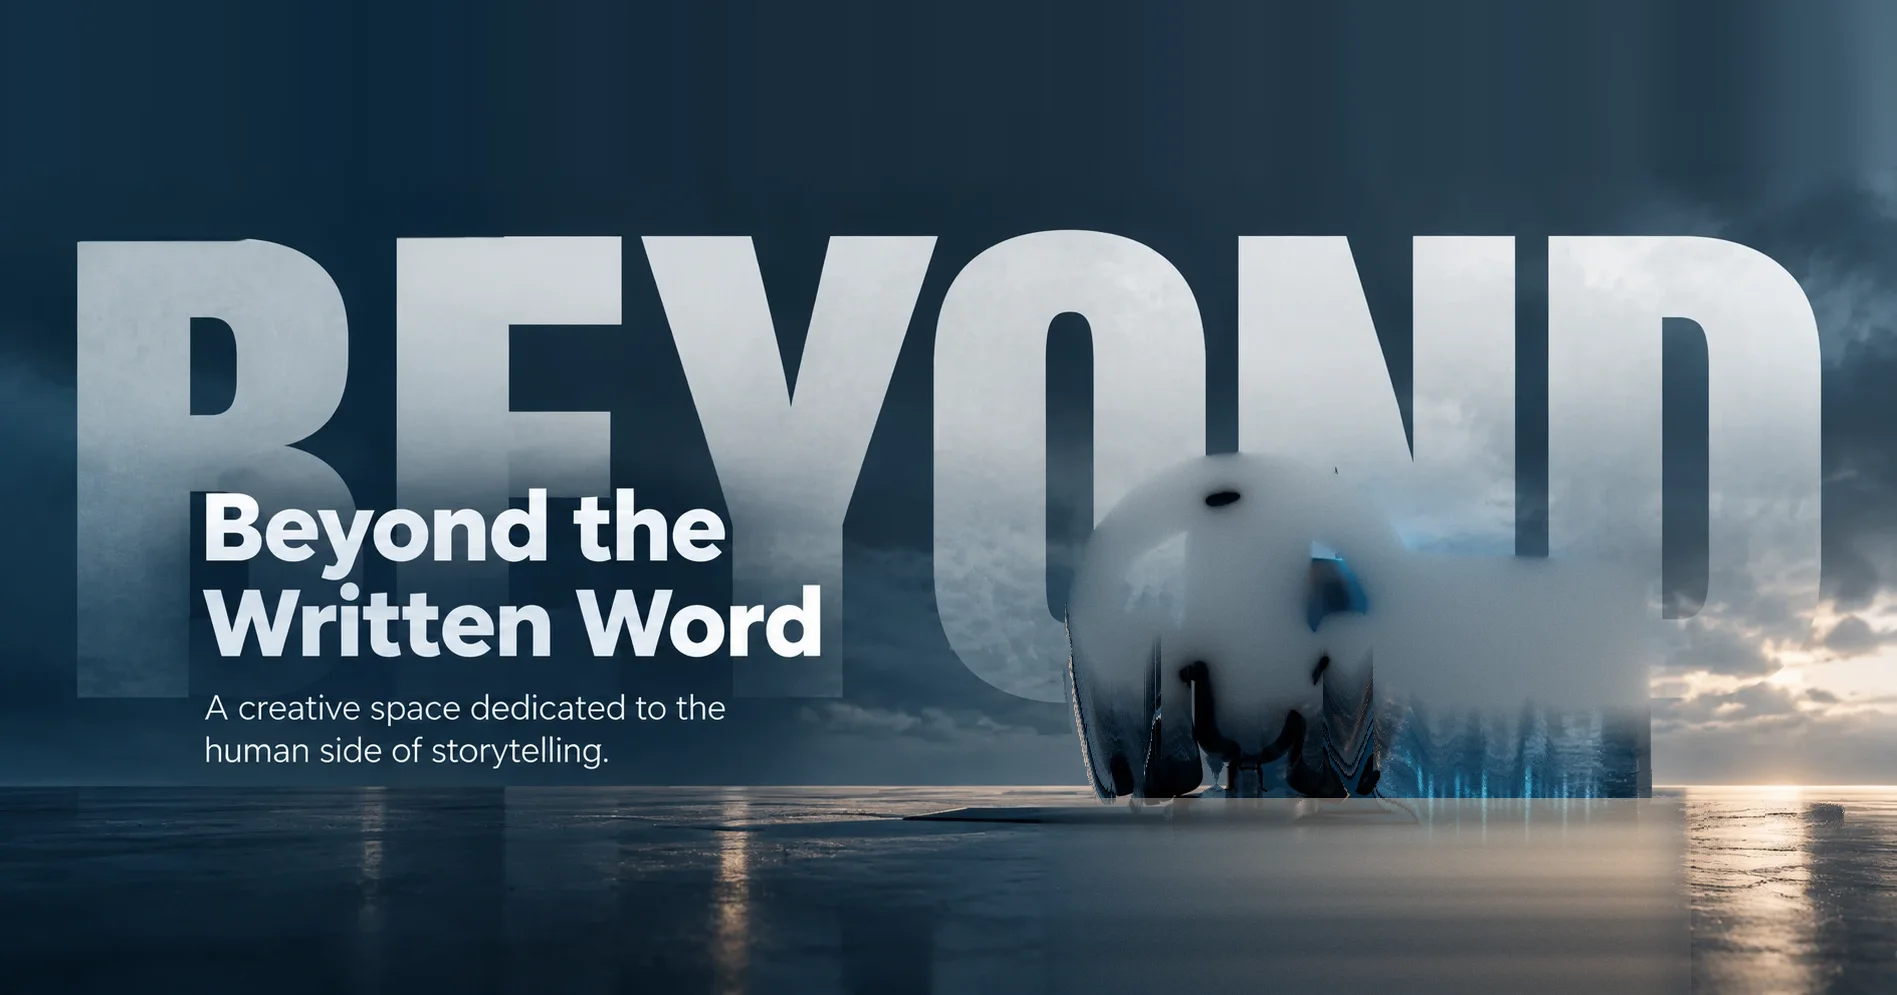
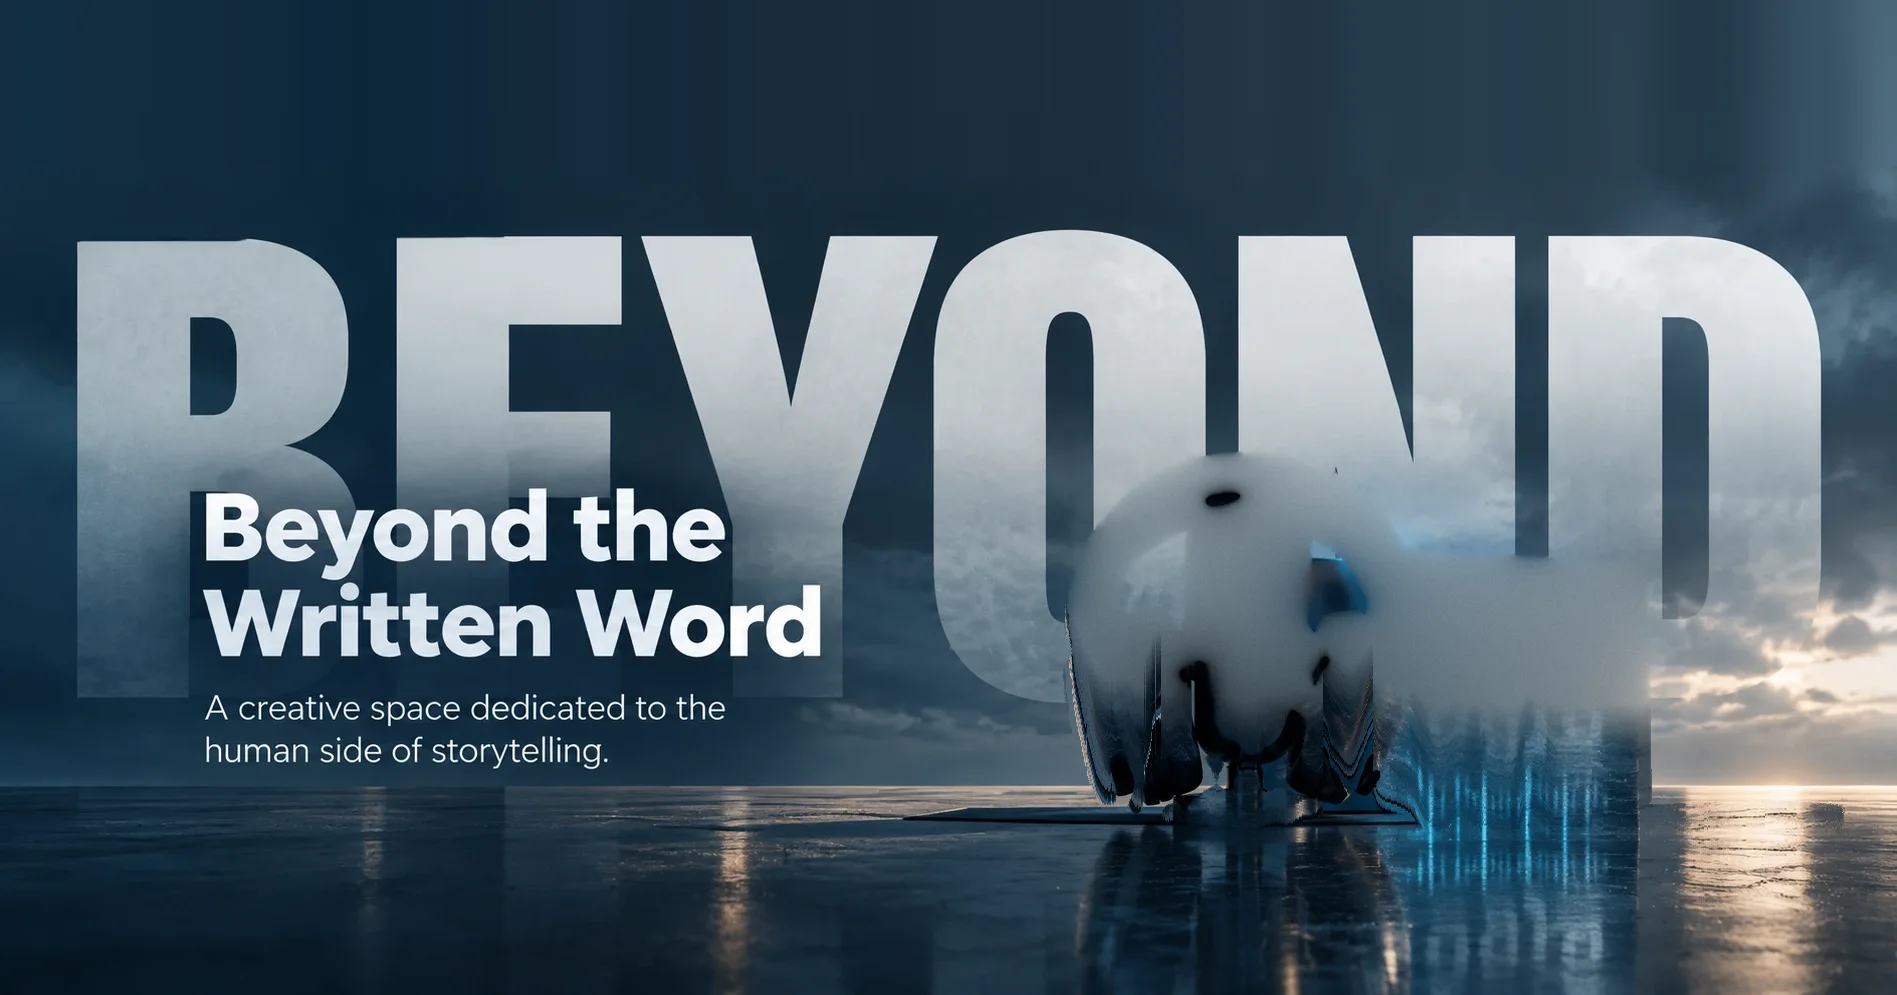
Hero: use the supplied high-res product cutout, original background without floor edits.
The product layer is now the separated cutout, aligned to the original floor line.
The background is the original image with only the old baked product removed.
Product moves with the background and scales up from the floor, so nothing is
uncovered and no shadow is left behind.

Changed region(s): [[0.5598, 0.7789, 0.902, 1.0]]

diff --git a/ECommerce.API/wwwroot/js/hero-3d.js b/ECommerce.API/wwwroot/js/hero-3d.js
@@ -1,4 +1,4 @@
-/* scroll-3d hero: extraY = scrollY * (1 - speed). Background 0.8x, product 0.84x plus a scale-up. */
+/* scroll-3d hero: extraY = scrollY * (1 - speed). Background and product 0.8x; the product also scales up. */
 (function () {
     'use strict';
     var stage = document.getElementById('hero3d');
@@ -12,7 +12,7 @@
         var y = Math.min(Math.max(window.scrollY || 0, 0), h);
         var p = h ? y / h : 0;
         bg.style.setProperty('--y', (y * 0.2).toFixed(1) + 'px');
-        product.style.setProperty('--y', (y * 0.16).toFixed(1) + 'px');
+        product.style.setProperty('--y', (y * 0.2).toFixed(1) + 'px'); // same as the background: the cutout only scales, nothing is uncovered
         product.style.setProperty('--s', (1 + 0.1 * (1 - Math.pow(1 - p, 2))).toFixed(4));
     }
 

diff --git a/ECommerce.API/wwwroot/css/home.css b/ECommerce.API/wwwroot/css/home.css
@@ -347,10 +347,10 @@ html.reduce-motion .arrow path {
   transform: translate3d(0, var(--y, 0px), 0);
 }
 .hero3d__product {
-  left: 46.39%;
-  top: 32.57%;
-  width: 51.66%;
+  left: 56.72%;
+  top: 35.95%;
+  width: 30.42%;
   height: auto;
-  transform-origin: 50% 89.5%; /* floor contact line */
+  transform-origin: 50% 100%; /* floor contact line */
   transform: translate3d(0, var(--y, 0px), 0) scale(var(--s, 1));
 }
